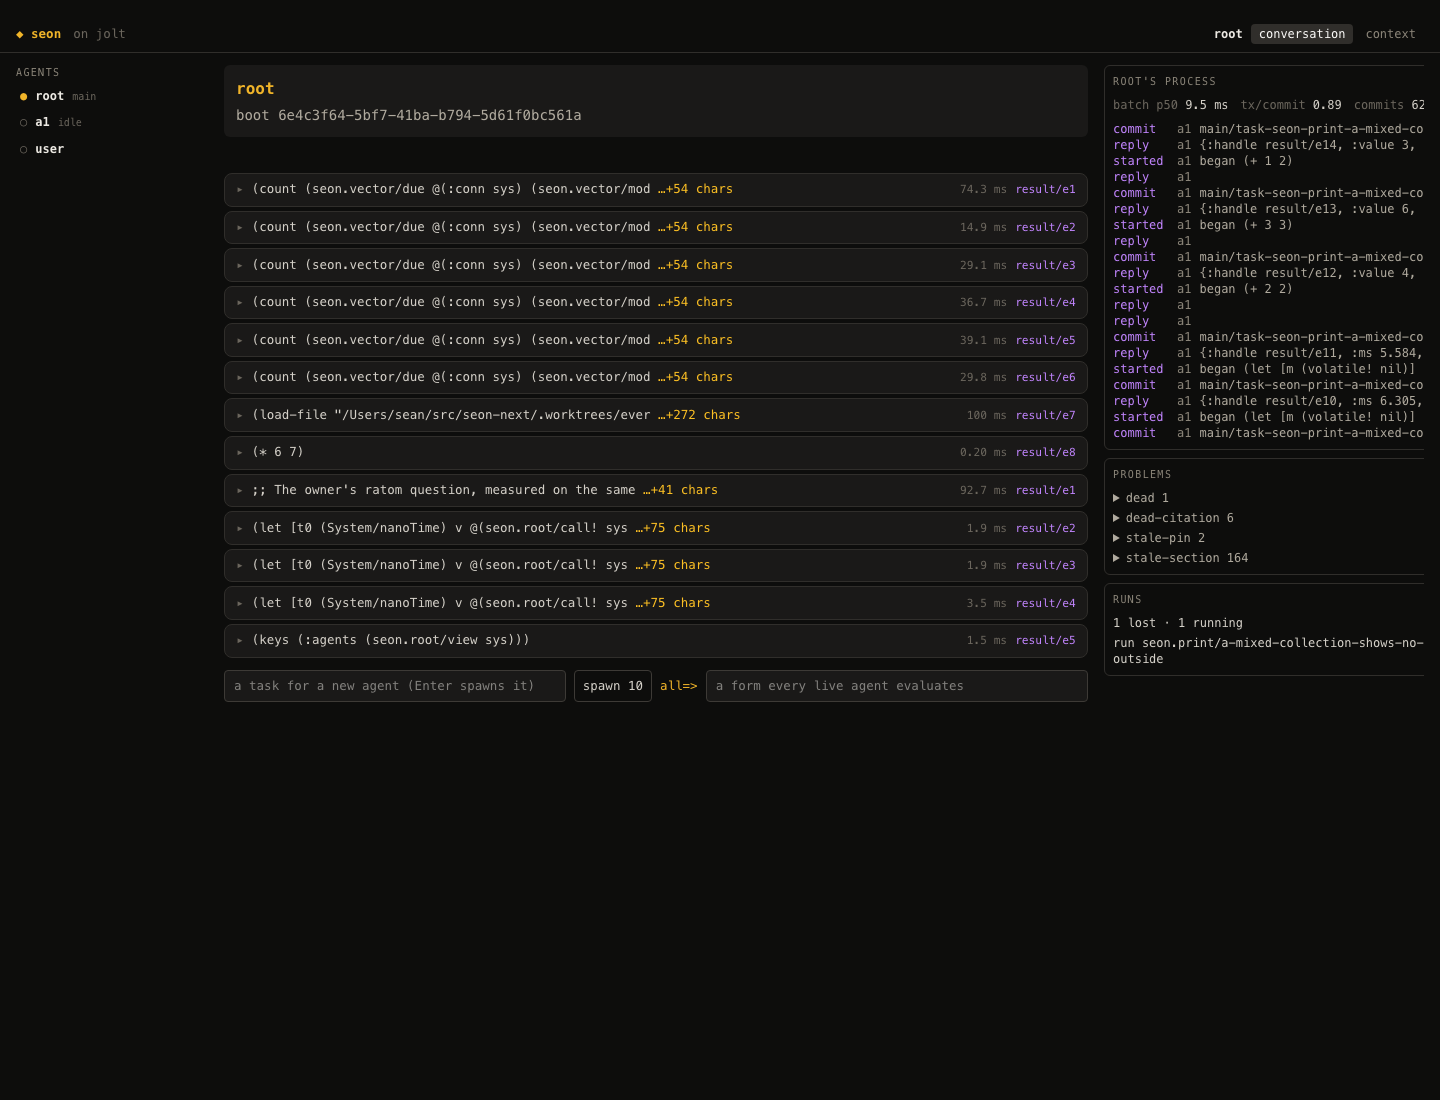
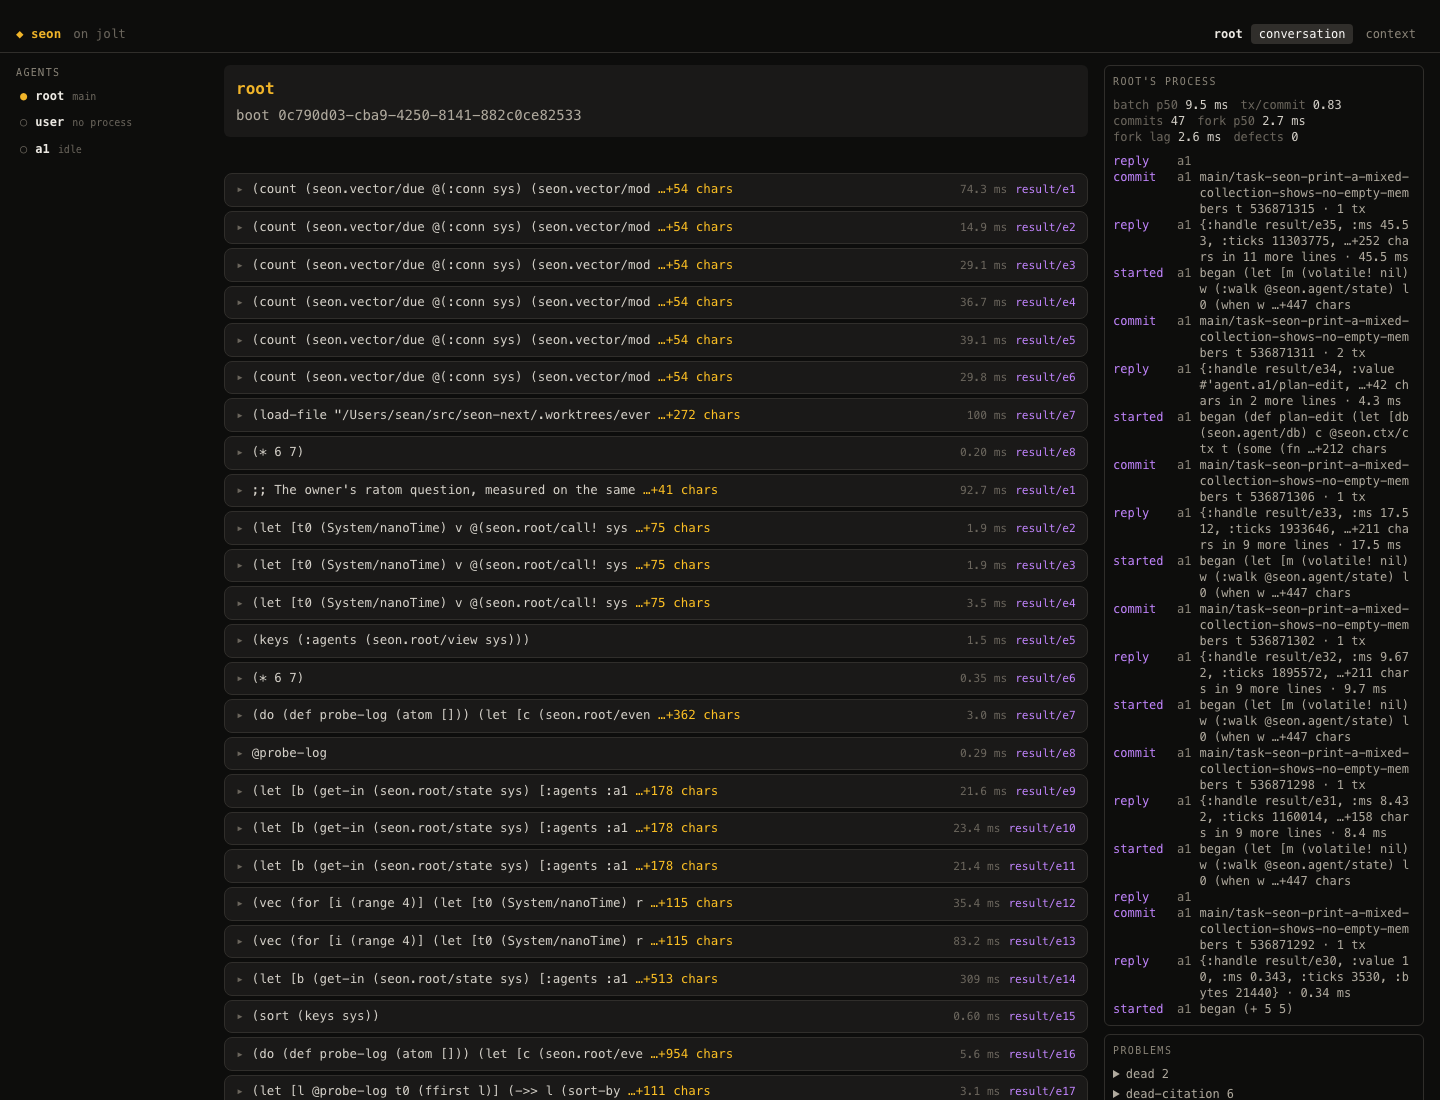
Self-review: no clip (the form line is the printer's one-line cut, the events tile draws the proc's window, no CSS ellipsis); placed-hiccup takes one shape; the dead :page and :seon.render/as :row declarations and stale citations of deleted vars removed

diff --git a/resources/public/css/input.css b/resources/public/css/input.css
@@ -132,7 +132,7 @@
 .hljs-name, .hljs-title { color: var(--color-text-100); }
 pre.seon-print-code { margin: 0; padding: 0.4rem 0.6rem; border-radius: 6px; background: var(--color-base-850); overflow-x: auto; }
 .seon-data-panel { display: inline; }
-/* the conversation (seon.render.ui/chat-part): prose as prose, each eval a block that opens to
+/* the conversation (seon.render.ui/eval-item): prose as prose, each eval a block that opens to
    its code and its value */
 .seon-prose { white-space: pre-wrap; font-family: var(--font-prose); font-size: 0.875rem; line-height: 1.6; color: var(--color-text-100); margin: 0; }
 .seon-eval { border: 1px solid var(--color-base-800); border-radius: 8px; background: var(--color-base-900); min-width: 0; }
@@ -148,7 +148,7 @@ pre.seon-print-code { margin: 0; padding: 0.4rem 0.6rem; border-radius: 6px; bac
 .seon-eval > summary::before { content: "▸"; color: var(--color-text-500); }
 .seon-eval[open] > summary::before { content: "▾"; color: var(--color-signal); }
 .seon-eval > summary > .seon-prose { flex-basis: 100%; order: -1; }
-.seon-form { min-width: 0; flex: 1 1 0; overflow: hidden; text-overflow: ellipsis; white-space: nowrap; color: var(--color-text-200); }
+.seon-form { min-width: 0; flex: 1 1 0; overflow-wrap: anywhere; color: var(--color-text-200); }
 .seon-ms { font-size: 0.7rem; color: var(--color-text-500); font-variant-numeric: tabular-nums; }
 .seon-handle { font-size: 0.7rem; color: var(--color-eval); }
 .seon-eval-error { border-color: color-mix(in srgb, var(--color-error) 45%, var(--color-base-800)); }

diff --git a/docs/clocks.md b/docs/clocks.md
@@ -79,7 +79,6 @@ Clock reads whose value is recorded or shown and never compared to decide anythi
 - `my.root/watch!`: the time a file watcher's death was seen, stamped on its `:platform` error ([health](health.md#every-writer-root-loads-what-changed)).
 - `seon.root/state`: the writer's transactions per second over the last second, shown.
 - `seon.render.proc/pass`: a render pass's duration and the events' age, shown on the dashboard.
-- `seon.render.proc/system-value`: carries the pass's wall time (`:now-ms`) to the dashboard, which shows ages from it; nothing here decides by it.
 - `seon.agent/handle!`, `seon.root/ext-op`, `seon.reconcile/advance`, `seon.reconcile/reconciler-proc`: stamps and durations.
 - `seon.agent/init!`, `seon.agent/hello!`: a spawn's phases (`seon.agent/spawn-phases`: the fork server's marks, then the child's, each with the bytes it allocated), sent with the agent's hello and shown on root's `:ready` event; nothing decides by them.
 - `seon.root/deliver-message`: a delivered message's send stamp (`:ns`), which the agent's receipt (`:received`) answers with its own, so the delivery's time is measured.

diff --git a/docs/ctx.md b/docs/ctx.md
@@ -16,7 +16,7 @@ The map is the agent's entity pulled by a pattern: Datahike's pull syntax, held 
   - `:needs`, the tasks it waits on;
   - `:sections`, the wiki sections its text cites (``:seon.task/sections``, the section-address twin of `:seon.task/references`, written by the same producer from the same text by the one parser, ``seon.ref/addresses``), each with its heading and text.
 
-The page's walk reads the same declaration: ``seon.render/units`` is a schema pattern's joins ([render](render.md)).
+Every render of ctx reads what this declaration holds ([render](render.md#the-page)).
 
 ## Kept by the change, never rebuilt
 
